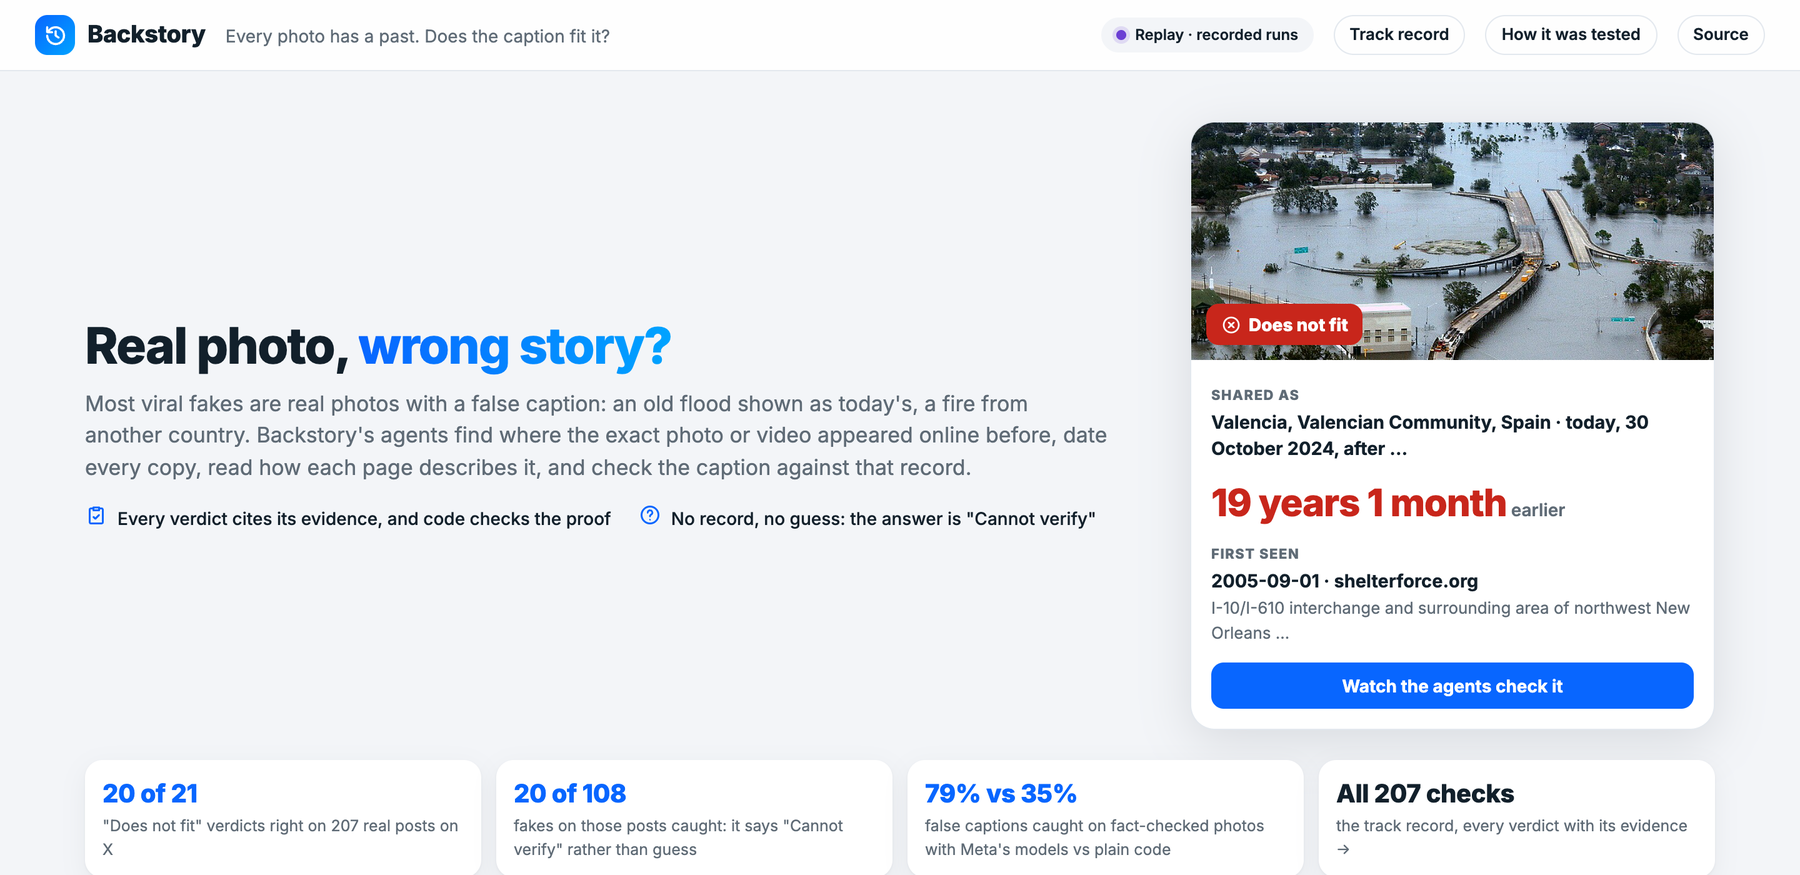
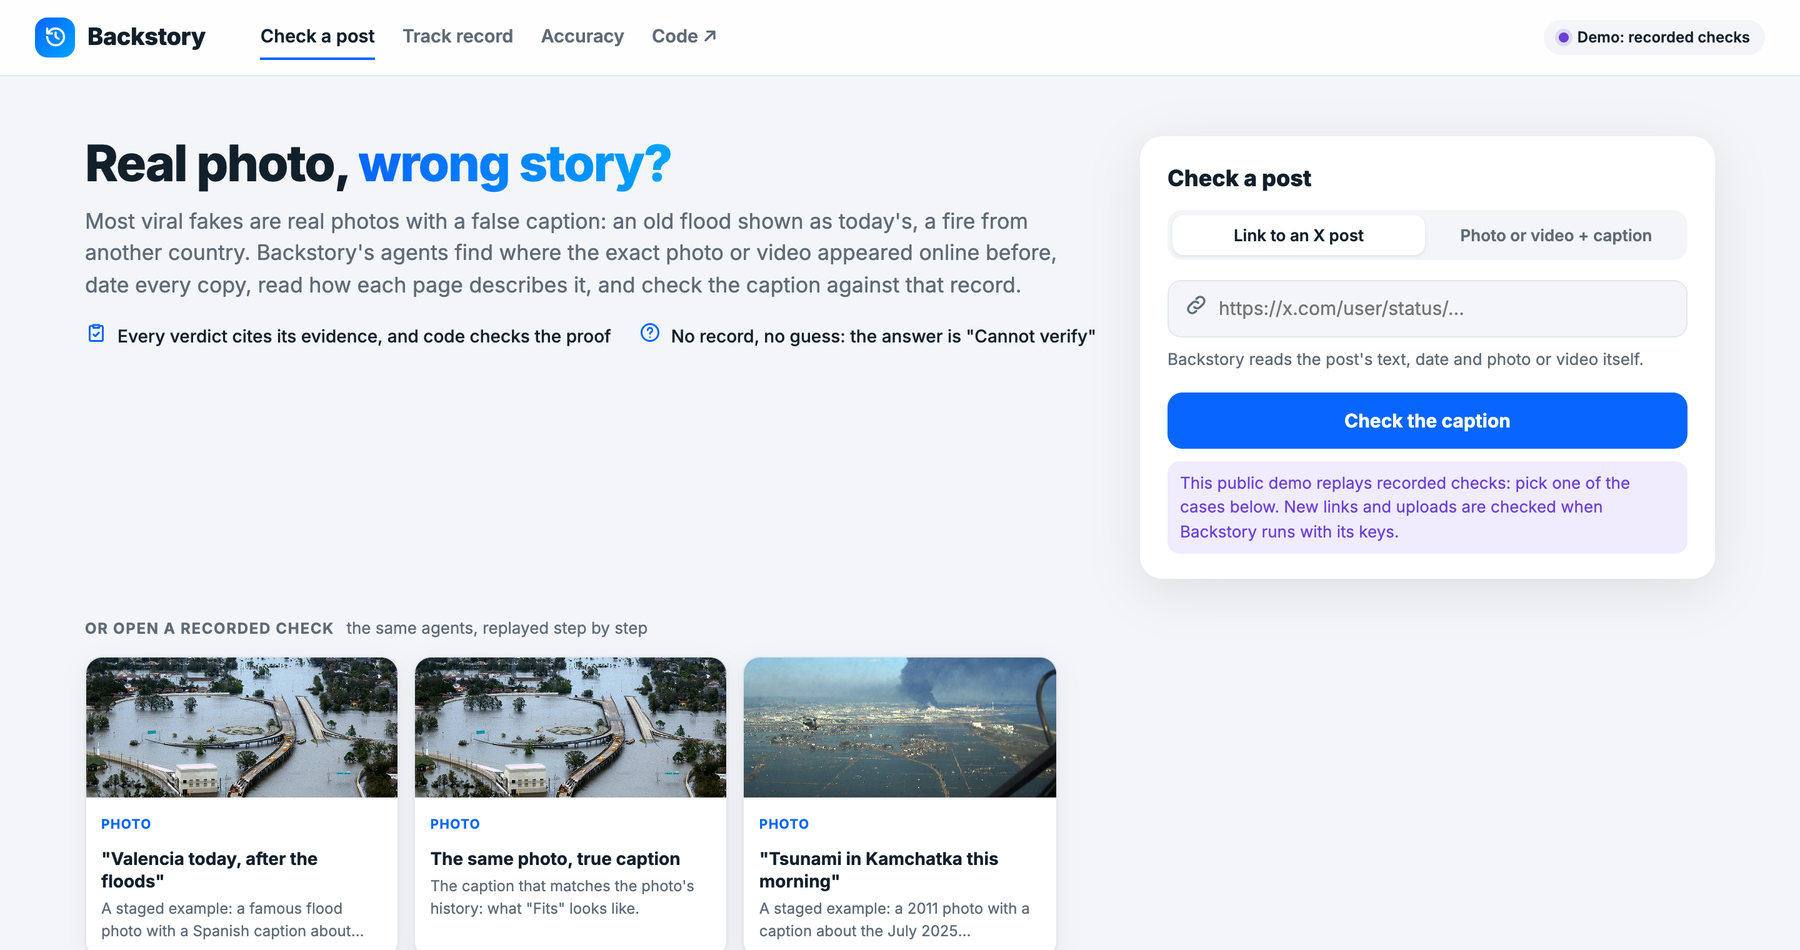
Home is for choosing what to check; the check runs on its own page (/check) with back-button support; plain text menu (Check a post, Track record, Accuracy, Code) and a clear demo label

diff --git a/web/index.html b/web/index.html
@@ -7,18 +7,21 @@
 <meta name="description" content="Does the caption fit the photo's past? Backstory finds where a photo or video appeared online before and checks the caption against that record.">
 <link rel="preconnect" href="https://fonts.googleapis.com">
 <link href="https://fonts.googleapis.com/css2?family=Inter:wght@400;500;600;700;800&family=JetBrains+Mono:wght@500&display=swap" rel="stylesheet">
-<link rel="stylesheet" href="/static/style.css?v=32">
+<link rel="stylesheet" href="/static/style.css?v=36">
 </head>
 <body>
 <header class="top">
   <a class="brand" href="/"><span class="logo"><svg viewBox="0 0 24 24" fill="none" stroke="currentColor" stroke-width="2.2" stroke-linecap="round" stroke-linejoin="round" aria-hidden="true"><path d="M3.5 12a8.5 8.5 0 1 0 2.6-6.1L3.5 8.5"/><path d="M3.5 3.5v5h5"/><path d="M12 7.5V12l3 2"/></svg></span>Backstory</a>
-  <span class="tag">Every photo has a past. Does the caption fit it?</span>
-  <span id="mode" class="mode"></span>
-  <a class="gh" href="/record">Track record</a>
-  <a class="gh" href="/tested">How it was tested</a>
-  <a class="gh" href="https://github.com/stas-gatin/backstory" target="_blank" rel="noopener">Source</a>
+  <nav class="nav">
+    <a href="/" class="on" data-nav="home">Check a post</a>
+    <a href="/record">Track record</a>
+    <a href="/tested">Accuracy</a>
+    <a href="https://github.com/stas-gatin/backstory" target="_blank" rel="noopener">Code ↗</a>
+  </nav>
+  <span id="mode" class="mode" title=""></span>
 </header>
 
+<div id="homeView">
 <section class="hero">
   <div class="hero-text">
     <h1>Real photo, <span>wrong story?</span></h1>
@@ -30,7 +33,44 @@
       <li><span data-icon="cannot_tell"></span>No record, no guess: the answer is "Cannot verify"</li>
     </ul>
   </div>
-  <div class="hero-preview" id="heroPreview" hidden></div>
+  <section class="card input" id="inputCard">
+    <div class="input-title">Check a post</div>
+    <div class="tabs" role="tablist">
+      <button type="button" class="tabbtn on" data-tab="link" role="tab">Link to an X post</button>
+      <button type="button" class="tabbtn" data-tab="upload" role="tab">Photo or video + caption</button>
+    </div>
+    <form id="form">
+      <div class="pane" data-pane="link">
+        <div class="linkbox"><span data-icon="link"></span><input type="url" id="postUrl" placeholder="https://x.com/user/status/…" autocomplete="off"></div>
+        <small class="hint">Backstory reads the post's text, date and photo or video itself.</small>
+      </div>
+      <div class="pane" data-pane="upload" hidden>
+        <label class="drop" id="drop">
+          <input type="file" id="file" accept="image/*,video/*" hidden>
+          <span id="dropText" class="droptext"><span data-icon="search"></span><b>Drop a photo or video</b><small>or click to choose · photos up to 20 MB, videos up to 60 MB</small></span>
+        </label>
+        <label class="field">Caption, as it was shared
+          <textarea id="caption" rows="2" placeholder="e.g. Valencia yesterday after the floods. Nobody is talking about this."></textarea>
+        </label>
+        <label class="field">Posted on <span class="hint">(optional, resolves "yesterday")</span>
+          <input type="date" id="posted">
+        </label>
+      </div>
+      <button id="go" type="submit">Check the caption</button>
+      <div id="formError" class="error" role="alert"></div>
+      <small class="hint demo-note" id="demoNote" hidden>This public demo replays recorded checks: pick one of the cases below. New links and uploads are checked when Backstory runs with its keys.</small>
+    </form>
+  </section>
+</section>
+
+<section class="examples-wrap" id="examplesWrap" hidden>
+  <div class="section-title">Or open a recorded check <span class="hint">the same agents, replayed step by step</span></div>
+  <div id="examples" class="examples"></div>
+</section>
+
+<section class="preview-wrap" id="previewWrap" hidden>
+  <div class="section-title">What an answer looks like</div>
+  <div class="hero-preview" id="heroPreview"></div>
 </section>
 
 <section class="proofstrip">
@@ -39,41 +79,12 @@
   <a href="/tested" class="ps"><b>79% vs 35%</b><span>false captions caught on fact-checked photos with Meta's models vs plain code</span></a>
   <a href="/record" class="ps link"><b>All 207 checks</b><span>the track record, every verdict with its evidence &rarr;</span></a>
 </section>
+</div>
 
-<section class="examples-wrap" id="examplesWrap" hidden>
-  <div class="section-title">Try a case <span class="hint">recorded runs: the same agents, replayed step by step</span></div>
-  <div id="examples" class="examples"></div>
-</section>
-
+<div id="checkView" hidden>
+<div class="checkbar"><a href="/" id="backHome">&larr; New check</a><span id="checkTitle"></span></div>
 <main>
   <aside class="left">
-    <section class="card input" id="inputCard">
-      <div class="tabs" role="tablist">
-        <button type="button" class="tabbtn on" data-tab="link" role="tab">Link to an X post</button>
-        <button type="button" class="tabbtn" data-tab="upload" role="tab">Upload photo or video</button>
-      </div>
-      <form id="form">
-        <div class="pane" data-pane="link">
-          <div class="linkbox"><span data-icon="link"></span><input type="url" id="postUrl" placeholder="https://x.com/user/status/…" autocomplete="off"></div>
-          <small class="hint">Backstory reads the post's text, date and photo or video itself. Its Community Note, if any, is shown next to the verdict, never given to the agents.</small>
-        </div>
-        <div class="pane" data-pane="upload" hidden>
-          <label class="drop" id="drop">
-            <input type="file" id="file" accept="image/*,video/*" hidden>
-            <span id="dropText" class="droptext"><span data-icon="search"></span><b>Drop a photo or video</b><small>or click to choose · photos up to 20 MB, videos up to 60 MB</small></span>
-          </label>
-          <label class="field">Caption, as it was shared
-            <textarea id="caption" rows="3" placeholder="e.g. Valencia yesterday after the floods. Nobody is talking about this."></textarea>
-          </label>
-          <label class="field">Posted on <span class="hint">(optional, resolves "yesterday")</span>
-            <input type="date" id="posted">
-          </label>
-        </div>
-        <button id="go" type="submit">Check the caption</button>
-        <div id="formError" class="error" role="alert"></div>
-      </form>
-    </section>
-
     <section class="card post" id="postCard" hidden>
       <div class="section-title">The post being checked</div>
       <div class="media" id="media"></div>
@@ -93,8 +104,6 @@
     </section>
 
     <section class="card result" id="result" hidden></section>
-
-
   </section>
 
   <section class="card wide" id="graphCard" hidden>
@@ -107,9 +116,10 @@
     <div class="evidence" id="evidence"></div>
   </section>
 </main>
+</div>
 
 <footer>Backstory · built for the Meta AI Developer Hackathon 2026 on Muse Spark, Muse Wonder, Muse Voice Transcribe and SAM 3.1 ·
-  <a href="/tested">How it was tested</a> · <a href="https://github.com/stas-gatin/backstory" target="_blank" rel="noopener">Source</a></footer>
-<script src="/static/app.js?v=33"></script>
+  <a href="/tested">Accuracy</a> · <a href="https://github.com/stas-gatin/backstory" target="_blank" rel="noopener">Code</a></footer>
+<script src="/static/app.js?v=35"></script>
 </body>
 </html>

diff --git a/web/app.js b/web/app.js
@@ -69,8 +69,11 @@ async function init() {
   drawMap();
   const st = await fetch("/api/status").then((r) => r.json()).catch(() => ({}));
   $("#mode").innerHTML = st.mode === "replay"
-    ? '<i class="live off"></i>Replay · recorded runs' : '<i class="live"></i>Live';
+    ? '<i class="live off"></i>Demo: recorded checks' : '<i class="live"></i>Live checks';
+  $("#mode").title = st.mode === "replay" ? "This copy replays checks recorded earlier, step by step, with no keys and no network." : "Checks run live on Meta's models.";
+  $("#demoNote").hidden = st.mode !== "replay";
   const ex = await fetch("/api/examples").then((r) => r.json()).catch(() => []);
+  EXAMPLES = ex;
   $("#examplesWrap").hidden = !ex.length;
   const KIND = { link: "X post", video: "Video", photo: "Photo" };
   $("#examples").innerHTML = ex.map((e) => `
@@ -82,20 +85,16 @@ async function init() {
   const pv = ex.find((e) => e.preview?.verdict === "inconsistent" && e.preview.first_date);
   if (pv) {
     const p = pv.preview, gap = span(p.first_date, p.claim_date);
-    $("#heroPreview").hidden = false;
+    $("#previewWrap").hidden = false;
     $("#heroPreview").innerHTML = `<div class="hp-img"><img src="/api/examples/${encodeURIComponent(pv.id)}/image" alt=""><span class="hp-badge">${icon("inconsistent")}Does not fit</span></div>
       <div class="hp-body"><div class="hp-k">Shared as</div><b>${esc(short(p.claimed, 70))}</b>
         <div class="hp-gap">${esc(gap || "")}<span> earlier</span></div>
         <div class="hp-k">First seen</div><b>${esc(p.first_date)} · ${esc(p.first_domain || "")}</b>${p.record ? `<span>${esc(short(p.record, 70))}</span>` : ""}
         <button type="button" class="hp-go" id="hpGo">Watch the agents check it</button></div>`;
-    $("#hpGo").addEventListener("click", () => document.querySelector(`.ex[data-id="${pv.id}"]`)?.click());
+    $("#hpGo").addEventListener("click", () => openExample(pv));
   }
-  document.querySelectorAll(".ex").forEach((b) => b.addEventListener("click", () => {
-    if (running) return;
-    chosenExample = ex.find((e) => e.id === b.dataset.id);
-    document.querySelectorAll(".ex").forEach((x) => x.classList.toggle("on", x === b));
-    $("#form").requestSubmit();
-  }));
+  document.querySelectorAll(".ex").forEach((b) => b.addEventListener("click", () => openExample(ex.find((e) => e.id === b.dataset.id))));
+  route();
 }
 
 function setTab(name) {
@@ -122,12 +121,43 @@ drop.addEventListener("dragleave", () => drop.classList.remove("over"));
 drop.addEventListener("drop", (e) => { e.preventDefault(); drop.classList.remove("over"); pickFile(e.dataTransfer.files[0]); });
 $("#postUrl").addEventListener("input", () => { chosenExample = null; document.querySelectorAll(".ex").forEach((b) => b.classList.remove("on")); });
 
+let EXAMPLES = [], runId = 0;
+
+// Two views: the home page, where you choose what to check, and the check page, where the agents work.
+function showView(name, url, title) {
+  $("#homeView").hidden = name !== "home";
+  $("#checkView").hidden = name !== "check";
+  if (url && location.pathname + location.search !== url) history.pushState({ view: name }, "", url);
+  $("#checkTitle").textContent = title || "";
+  document.title = name === "check" && title ? title + " · Backstory" : "Backstory";
+  window.scrollTo(0, 0);
+}
+
+function openExample(e) {
+  if (!e) return;
+  chosenExample = e;
+  $("#form").requestSubmit();
+}
+
+function route() {
+  const q = new URLSearchParams(location.search);
+  if (location.pathname === "/check") {
+    const ex = EXAMPLES.find((e) => e.id === q.get("case"));
+    if (ex) return openExample(ex);
+    if (q.get("post")) { $("#postUrl").value = q.get("post"); setTab("link"); chosenExample = null; return $("#form").requestSubmit(); }
+    history.replaceState({}, "", "/");
+  }
+  showView("home");
+}
+addEventListener("popstate", () => { runId += 1; running = false; setRunning(false); route(); });
+
 $("#form").addEventListener("submit", async (e) => {
   e.preventDefault();
   if (running) return;
   const fd = new FormData();
-  let post = null;
+  let post = null, url = "/check", title = "";
   if (chosenExample) {
+    url = "/check?case=" + encodeURIComponent(chosenExample.id); title = chosenExample.title;
     fd.append("example_id", chosenExample.id);
     post = { media: chosenExample.kind === "video" ? `/api/examples/${encodeURIComponent(chosenExample.id)}/video` : `/api/examples/${encodeURIComponent(chosenExample.id)}/image`,
              video: chosenExample.kind === "video", text: chosenExample.kind === "link" ? "" : chosenExample.caption,
@@ -140,6 +170,7 @@ $("#form").addEventListener("submit", async (e) => {
     }
     fd.append("post_url", link);
     post = { media: null, text: "", meta: link };
+    url = "/check?post=" + encodeURIComponent(link); title = "Post on X";
   } else {
     if (!chosenFile || !$("#caption").value.trim()) {
       $("#formError").textContent = "Choose a photo or video and enter the caption it was shared with.";
@@ -150,7 +181,11 @@ $("#form").addEventListener("submit", async (e) => {
     fd.append("posted_on", $("#posted").value);
     post = { media: URL.createObjectURL(chosenFile), video: chosenFile.type.startsWith("video/"), text: $("#caption").value,
              meta: $("#posted").value ? "Posted " + $("#posted").value : "" };
+    title = "Uploaded " + (post.video ? "video" : "photo");
   }
+  chosenExample = null;
+  showView("check", url, title);
+  const mine = ++runId;
   $("#formError").textContent = "";
   reset(post);
   setRunning(true);
@@ -164,9 +199,10 @@ $("#form").addEventListener("submit", async (e) => {
       if (done) break;
       buf += dec.decode(value, { stream: true });
       let i;
-      while ((i = buf.indexOf("\n")) >= 0) { handle(JSON.parse(buf.slice(0, i))); buf = buf.slice(i + 1); }
+      while ((i = buf.indexOf("\n")) >= 0) { if (mine === runId) handle(JSON.parse(buf.slice(0, i))); buf = buf.slice(i + 1); }
+      if (mine !== runId) { reader.cancel(); break; }
     }
-    if (!finished) handle({ type: "error", text: "The connection closed before the check finished. Please try again." });
+    if (!finished && mine === runId) handle({ type: "error", text: "The connection closed before the check finished. Please try again." });
   } catch (err) {
     handle({ type: "error", text: err.message });
   }
@@ -215,7 +251,6 @@ function reset(post) {
   $("#logToggle")?.remove(); $("#evMore")?.remove();
   $("#result").hidden = true; $("#evidenceCard").hidden = true; $("#evidence").innerHTML = "";
   showPost(post);
-  $("#mapCard").scrollIntoView({ behavior: "smooth", block: "start" });
 }
 
 function handle(ev) {

diff --git a/web/style.css b/web/style.css
@@ -410,3 +410,29 @@ th { color: var(--muted); font-weight: 600; border-top: 0; font-size: 12px; }
 .debate li.critic { background: var(--violet-soft); margin-left: auto; }
 .debate li.critic.no { background: var(--amber-soft); }
 .debate .who { font-size: 11px; font-weight: 800; letter-spacing: .05em; text-transform: uppercase; color: var(--muted); }
+
+/* Navigation: plain text links, the current page underlined */
+.nav { display: flex; gap: 22px; margin-left: 28px; align-items: center; }
+.nav a { color: var(--muted); font-weight: 600; font-size: 14.5px; padding: 6px 0; border-bottom: 2px solid transparent; }
+.nav a:hover { color: var(--ink); text-decoration: none; }
+.nav a.on { color: var(--ink); border-bottom-color: var(--blue); }
+.top .mode { margin-left: auto; cursor: help; }
+.top .tag { display: none; }
+/* Home: the input is the first thing to use */
+.hero { grid-template-columns: minmax(0, 1fr) 460px; align-items: start; padding-top: 48px; }
+.hero .input { margin: 0; box-shadow: 0 10px 40px rgba(16, 24, 40, .10); }
+.input-title { font-size: 18px; font-weight: 800; margin-bottom: 12px; }
+.demo-note { display: block; margin-top: 10px; background: var(--violet-soft); color: var(--violet); border-radius: 10px; padding: 8px 10px; }
+.preview-wrap { max-width: 1360px; margin: 0 auto; padding: 24px 28px 0; }
+.preview-wrap .hero-preview { display: grid; grid-template-columns: 380px 1fr; max-width: 980px; align-items: stretch; }
+.preview-wrap .hp-img img { height: 100%; max-height: 270px; min-height: 230px; }
+.preview-wrap .hp-body { padding: 18px 22px; align-content: center; }
+.preview-wrap .hp-go { justify-self: start; padding: 10px 18px; }
+.proofstrip { margin-bottom: 30px; }
+/* Check page */
+.checkbar { max-width: 1360px; margin: 0 auto; padding: 18px 28px 0; display: flex; gap: 16px; align-items: baseline; }
+.checkbar a { font-weight: 700; font-size: 14.5px; }
+.checkbar span { font-size: 18px; font-weight: 800; }
+@media (max-width: 1100px) { .hero { grid-template-columns: 1fr; } .preview-wrap .hero-preview { grid-template-columns: 1fr; } }
+@media (max-width: 760px) { .nav { gap: 14px; margin-left: 10px; overflow-x: auto; } .nav a { font-size: 13.5px; white-space: nowrap; } .top .mode { display: none; } .checkbar, .preview-wrap { padding-left: 16px; padding-right: 16px; } }
+@media (max-width: 600px) { .brand { font-size: 0; gap: 0; } .nav { margin-left: 6px; } }

diff --git a/web/tested.html b/web/tested.html
@@ -3,22 +3,24 @@
 <head>
 <meta charset="utf-8">
 <meta name="viewport" content="width=device-width, initial-scale=1">
-<title>How Backstory was tested</title>
+<title>Backstory accuracy</title>
 <link rel="preconnect" href="https://fonts.googleapis.com">
 <link href="https://fonts.googleapis.com/css2?family=Inter:wght@400;500;600;700;800&family=JetBrains+Mono:wght@500&display=swap" rel="stylesheet">
-<link rel="stylesheet" href="/static/style.css?v=31">
+<link rel="stylesheet" href="/static/style.css?v=36">
 </head>
 <body>
 <header class="top">
   <a class="brand" href="/"><span class="logo"><svg viewBox="0 0 24 24" fill="none" stroke="currentColor" stroke-width="2.2" stroke-linecap="round" stroke-linejoin="round" aria-hidden="true"><path d="M3.5 12a8.5 8.5 0 1 0 2.6-6.1L3.5 8.5"/><path d="M3.5 3.5v5h5"/><path d="M12 7.5V12l3 2"/></svg></span>Backstory</a>
-  <span class="tag">How it was tested</span>
-  <a class="gh nav-right" href="/">Check a post</a>
-  <a class="gh" href="/record">Track record</a>
-  <a class="gh" href="https://github.com/stas-gatin/backstory/tree/main/docs" target="_blank" rel="noopener">Test reports</a>
+  <nav class="nav">
+    <a href="/">Check a post</a>
+    <a href="/record">Track record</a>
+    <a href="/tested" class="on">Accuracy</a>
+    <a href="https://github.com/stas-gatin/backstory" target="_blank" rel="noopener">Code ↗</a>
+  </nav>
 </header>
 
 <section class="hero">
-  <h1>How it was <span>tested</span></h1>
+  <h1>How accurate <span>is it?</span></h1>
   <p>Nine tests. Before each run, the pass rule was written down (and, from Test G on, committed);
     afterwards, the result was reported against that rule, including when it failed. A version is measured once, on data it has never seen;
     a fix is measured again on new data.</p>

diff --git a/web/record.html b/web/record.html
@@ -6,14 +6,17 @@
 <title>Backstory track record</title>
 <link rel="preconnect" href="https://fonts.googleapis.com">
 <link href="https://fonts.googleapis.com/css2?family=Inter:wght@400;500;600;700;800&family=JetBrains+Mono:wght@500&display=swap" rel="stylesheet">
-<link rel="stylesheet" href="/static/style.css?v=31">
+<link rel="stylesheet" href="/static/style.css?v=36">
 </head>
 <body>
 <header class="top">
   <a class="brand" href="/"><span class="logo"><svg viewBox="0 0 24 24" fill="none" stroke="currentColor" stroke-width="2.2" stroke-linecap="round" stroke-linejoin="round" aria-hidden="true"><path d="M3.5 12a8.5 8.5 0 1 0 2.6-6.1L3.5 8.5"/><path d="M3.5 3.5v5h5"/><path d="M12 7.5V12l3 2"/></svg></span>Backstory</a>
-  <span class="tag">Track record</span>
-  <a class="gh nav-right" href="/">Check a post</a>
-  <a class="gh" href="/tested">How it was tested</a>
+  <nav class="nav">
+    <a href="/">Check a post</a>
+    <a href="/record" class="on">Track record</a>
+    <a href="/tested">Accuracy</a>
+    <a href="https://github.com/stas-gatin/backstory" target="_blank" rel="noopener">Code ↗</a>
+  </nav>
 </header>
 
 <section class="hero single">

diff --git a/backstory/server.py b/backstory/server.py
@@ -125,6 +125,11 @@ def index():
     return FileResponse(WEB / "index.html")
 
 
+@app.get("/check")
+def check_page():
+    return FileResponse(WEB / "index.html")
+
+
 @app.get("/tested")
 def tested():
     return FileResponse(WEB / "tested.html")

diff --git a/README.md b/README.md
@@ -211,7 +211,7 @@ reverse search finds nothing usable, which happens for most fake videos, it says
 - **H5, H6: video stays hard.** Two ideas, each tested A/B on fresh posts, gave no gain. For a third of the fake videos, reverse search finds nothing for any frame.
 - One fix came after all tests: the creation date of a wiki article no longer counts as a date for the photo in it. No verdict in any test rested on such a date alone.
 
-The same numbers, with the comparison against plain code, are on the app's **How it was tested** page (`/tested`).
+The same numbers, with the comparison against plain code, are on the app's **Accuracy** page (`/tested`).
 
 ---
 
